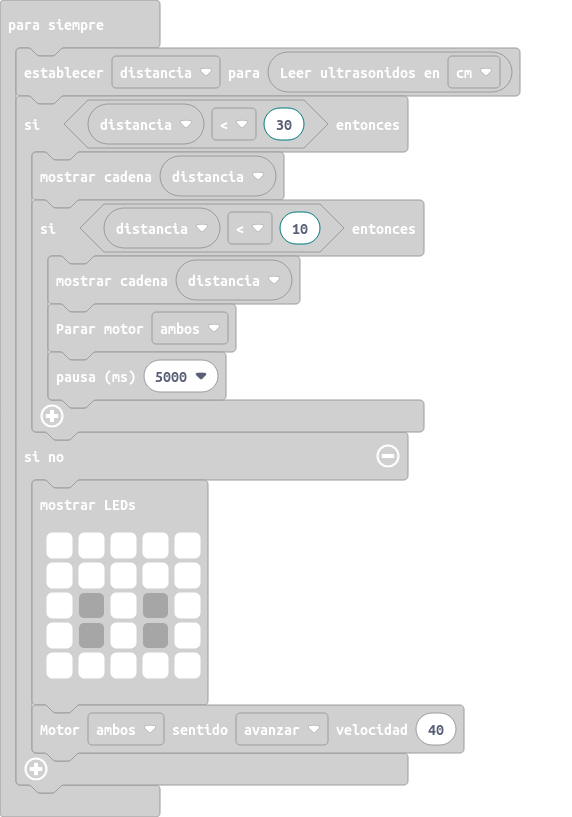
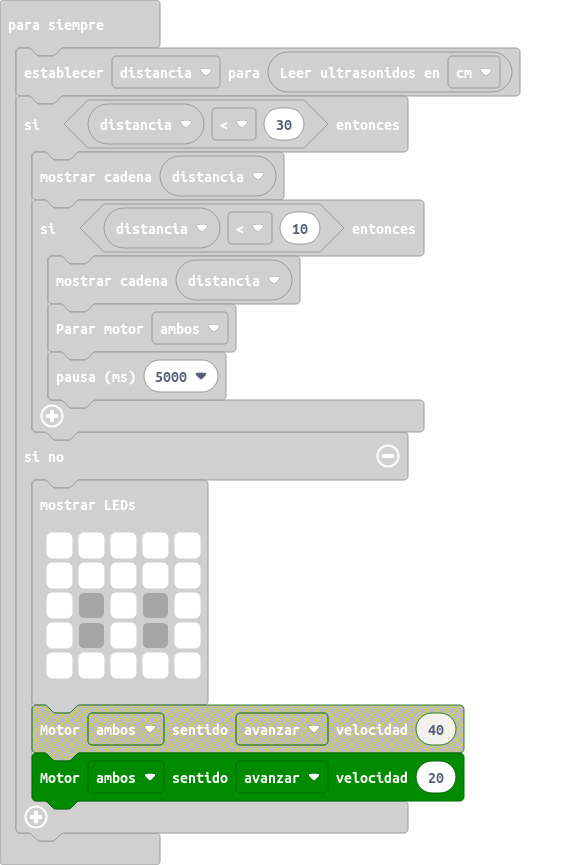
Actualizar main.blocks, main.ts

Changed region(s): [[0.0297, 0.0306, 0.9213, 0.9792], [0.0297, 0.0306, 0.0594, 0.0612]]

diff --git a/main.ts b/main.ts
@@ -16,6 +16,6 @@ basic.forever(function () {
             # . # . #
             # # # # #
             `)
-        maqueen.motorRun(maqueen.Motors.All, maqueen.Dir.CW, 40)
+        maqueen.motorRun(maqueen.Motors.All, maqueen.Dir.CW, 20)
     }
 })
